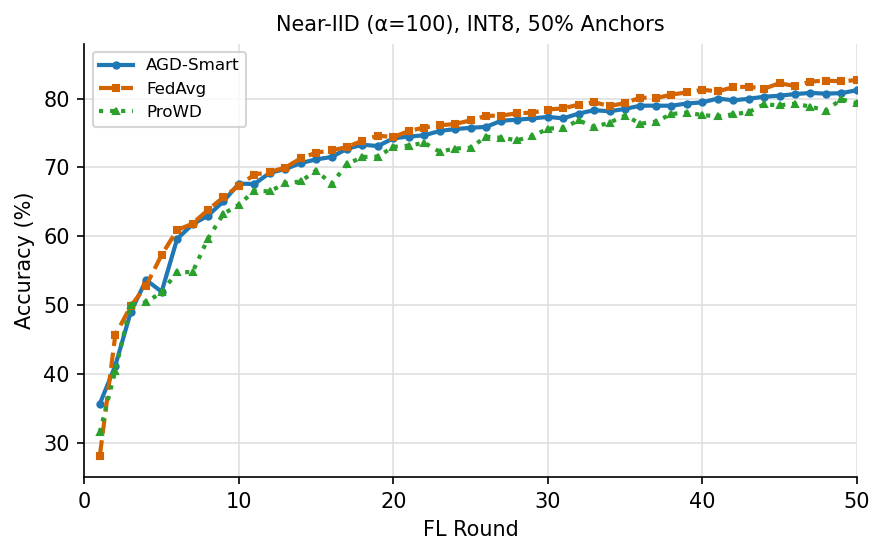
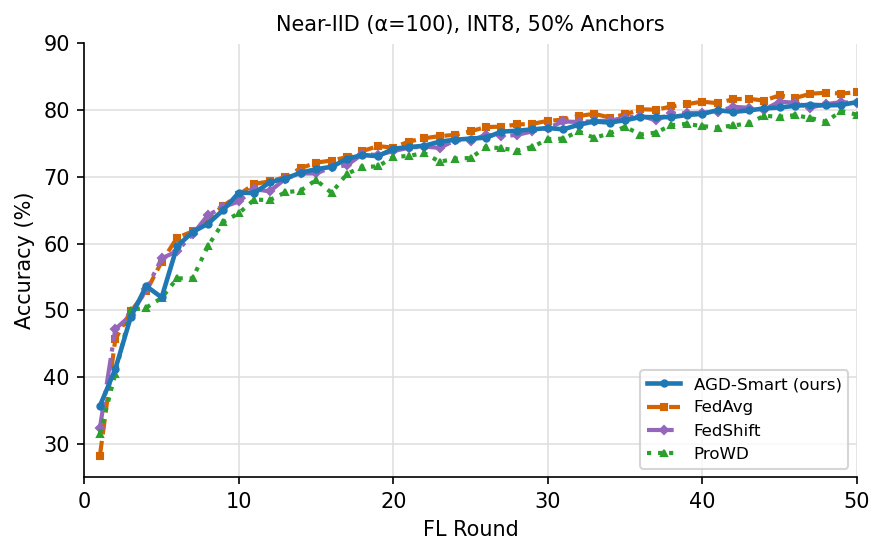
Added images and fedshift findings markdown

Changed region(s): [[0.0305, 0.0919, 0.9763, 0.8577], [0.0305, 0.0613, 0.0915, 0.0919], [0.9458, 0.7964, 0.9763, 0.827]]

diff --git a/fedshift_findings.md b/fedshift_findings.md
@@ -1,0 +1,95 @@
+# FedShift Comparison — Findings
+
+FedShift aligns quantized updates to the anchor distribution via a per-layer global mean shift:
+```
+shifted_delta = quantized_delta + (mean_anchor - mean_quantized)
+```
+No learned model, no replay buffer — just a single closed-form correction per round.
+
+---
+
+## Results by Configuration
+
+### INT8 Near-IID (α=100, 50% anchors, 50 rounds)
+
+| Method      | R10  | R25  | R50  |
+|-------------|------|------|------|
+| FedAvg      | 67.3 | 76.8 | 82.7 |
+| FedShift    | 66.3 | 75.4 | 81.1 |
+| ProWD       | 64.6 | 72.8 | 79.3 |
+| **AGD-Smart** | **67.6** | 75.8 | **81.2** |
+| AGD vs FedShift | +1.3 | +0.3 | **+0.1** |
+
+FedShift and AGD-Smart are effectively **tied at R50** (81.2 vs 81.1%). Both trail FedAvg by ~1.5pp. FedShift beats ProWD by +1.8pp without any learned model.
+
+---
+
+### INT4 Near-IID (α=100, 50% anchors, 50 rounds)
+
+| Method      | R10  | R25  | R50  |
+|-------------|------|------|------|
+| FedAvg      | 67.4 | 77.5 | 83.2 |
+| FedShift    | 66.5 | 75.4 | 80.7 |
+| ProWD       | 64.8 | 73.8 | 77.7 |
+| **AGD-Smart** | **67.5** | **77.1** | **82.5** |
+| AGD vs FedShift | +1.0 | +1.8 | **+1.8** |
+
+AGD-Smart maintains a consistent **+1.8pp advantage** over FedShift at R25 and R50. FedShift beats ProWD by +3pp, again without a learned corrector. AGD-Smart is the only method within 0.7pp of FedAvg.
+
+---
+
+### INT8 Non-IID (α=0.5, 50% anchors, 50 rounds)
+
+| Method      | R10  | R25  | R50  |
+|-------------|------|------|------|
+| FedAvg      | 65.1 | 73.4 | 80.4 |
+| FedShift    | 57.8 | 65.9 | 73.8 |
+| ProWD       | 56.1 | 69.6 | 72.8 |
+| **AGD-Smart** | **59.8** | **69.8** | **74.8** |
+| AGD vs FedShift | +2.0 | +3.9 | +1.0 |
+
+**FedShift fails under non-IID data.** The global mean shift is computed from anchor means, which do not represent constrained client data distributions when heterogeneity is high. FedShift trails FedAvg by **−6.6pp** at R50 — worse than even ProWD. AGD-Smart beats FedShift by +3.9pp at R25, showing that smart per-client matching is essential in heterogeneous settings.
+
+---
+
+### INT2 Near-IID (α=100, 20% anchors, 50 rounds)
+
+| Method      | R10  | R20  | R25  | R30  | R50  |
+|-------------|------|------|------|------|------|
+| FedAvg      | 44.0 | 64.9 | 67.3 | 70.2 | 75.4 |
+| FedShift    | 46.9 | 67.0 | 69.5 | 72.9 | 77.4 |
+| ProWD       | 57.3 | 67.0 | 69.2 | 68.5 | 71.8 |
+| **AGD-Smart** | **58.2** | **70.2** | **73.9** | **75.3** | **77.5** |
+| AGD vs FedShift | **+11.2** | +3.2 | +4.4 | +2.4 | +0.1 |
+
+The most revealing comparison. At R50, AGD-Smart and FedShift converge to nearly the same accuracy (77.5 vs 77.4%) — but **AGD-Smart leads by +11.2pp at R10**. FedShift recovers gradually; AGD-Smart's CorrectionNet fires at round 6 and immediately opens a gap that only closes over 44 more rounds.
+
+FedShift does outperform FedAvg throughout (the mean shift helps at INT2), and it eventually matches AGD-Smart's final accuracy. But it loses badly in early rounds — which matters for communication efficiency.
+
+---
+
+## Key Takeaways
+
+**Where FedShift is competitive:**
+- Near-IID conditions: simple mean shift is very effective, nearly matches AGD-Smart at INT8
+- Consistently beats ProWD in 3 of 4 configs without any learned model
+
+**Where FedShift breaks down:**
+- **Non-IID data**: global mean shift is biased — anchor means don't represent heterogeneous client distributions. Falls 6.6pp behind FedAvg.
+- **Early convergence at INT2**: loses by 11.2pp at R10 despite closing the gap to 0.1pp by R50. In communication-limited scenarios (few rounds), AGD-Smart's early activation advantage is decisive.
+
+**Ordering (most to least consistent):**
+```
+AGD-Smart ≥ FedShift > ProWD    (near-IID)
+AGD-Smart > ProWD ≈ FedShift    (non-IID)
+```
+FedShift is a stronger baseline than ProWD under near-IID conditions. Under non-IID, the direction-preserving blend in AGD-Smart makes it more robust than either FedShift or ProWD.
+
+**For the slides/paper:**
+FedShift is worth adding as a second learned-free baseline alongside FedAvg. It sharpens the story:
+- FedAvg = no correction at all
+- FedShift = simple mean shift (fast, no model, near-IID works, non-IID fails)
+- ProWD = learned corrector but resets each round (beaten by FedShift in most configs)
+- AGD-Smart = learned corrector with replay buffer + smart matching (wins on early convergence and non-IID robustness)
+
+The new ordering makes clear that what matters isn't just having a learned corrector (ProWD), but having a **persistent** one (replay buffer) with **personalized** targets (smart matching).
